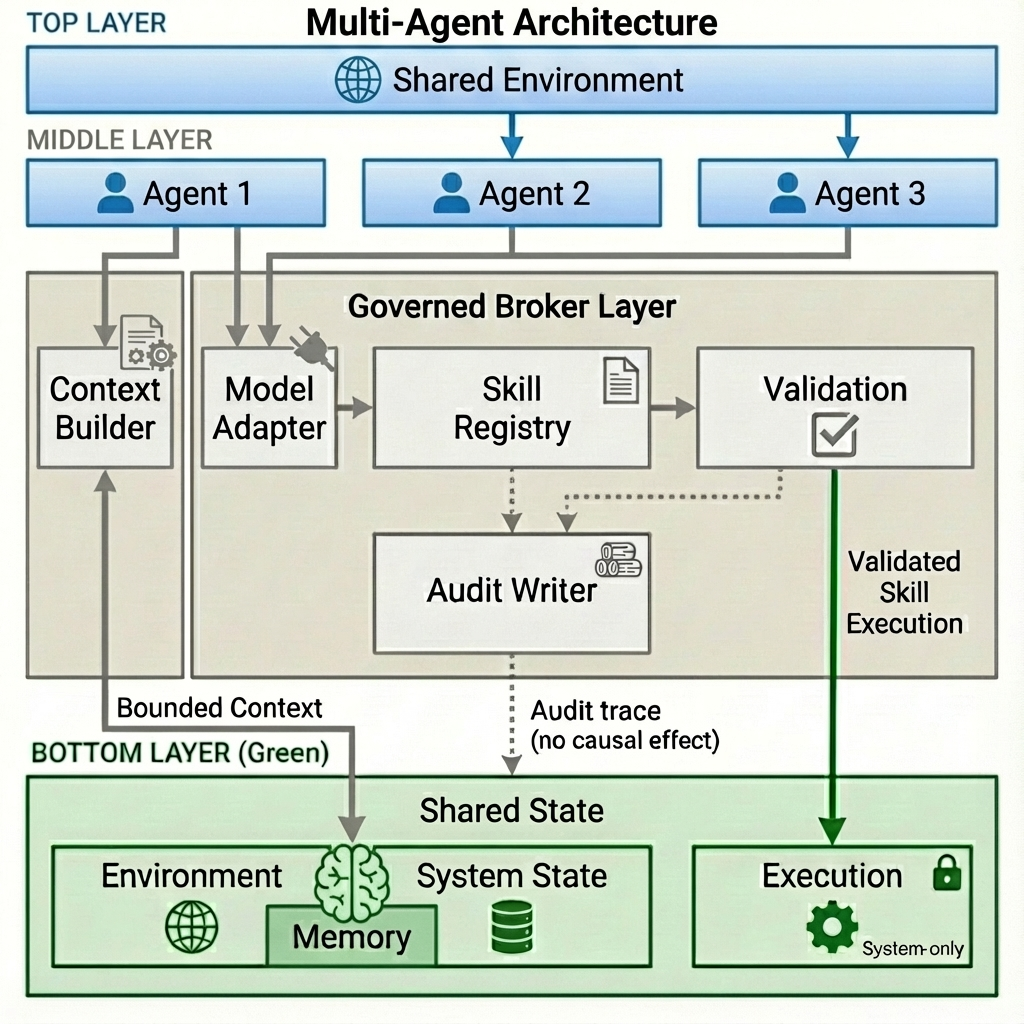
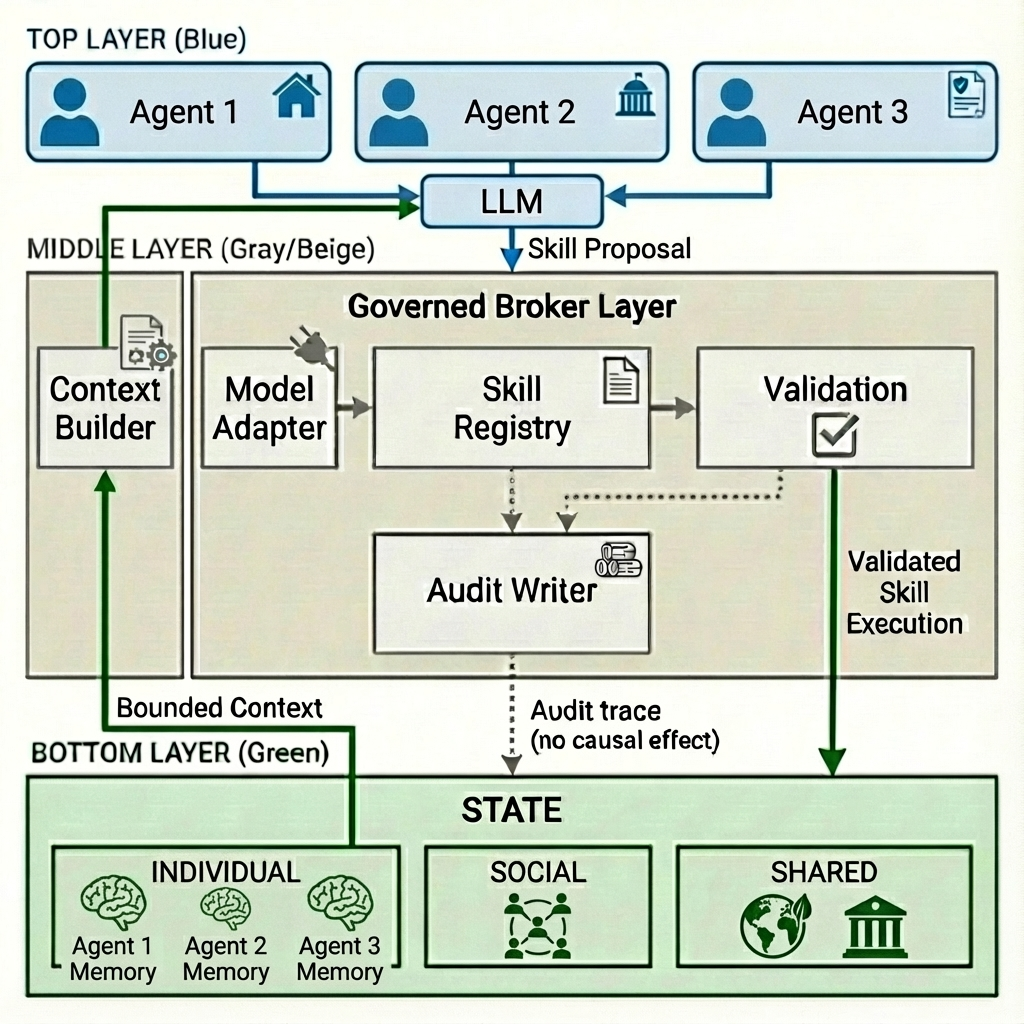
docs: update multi-agent architecture diagram and README with SOCIAL state layer

diff --git a/broker/context_builder.py b/broker/context_builder.py
@@ -18,15 +18,42 @@ class ContextBuilder(ABC):
     """
     
     @abstractmethod
-    def build(self, agent_id: str) -> Dict[str, Any]:
+    def build(
+        self, 
+        agent_id: str,
+        observable: Optional[List[str]] = None
+    ) -> Dict[str, Any]:
         """
         Build bounded context for an agent.
+        
+        Args:
+            agent_id: The agent to build context for
+            observable: Optional list of observable categories:
+                - "neighbors": Include neighbor actions
+                - "community": Include community statistics
+                - "institutional": Include policy state
         
         Returns:
             Dict with observable signals only.
             Must NOT include hidden state variables.
         """
         pass
+    
+    def build_with_neighbors(
+        self,
+        agent_id: str,
+        neighbor_ids: List[str],
+        include_actions: bool = True
+    ) -> Dict[str, Any]:
+        """
+        Build context with neighbor observation.
+        
+        Default implementation delegates to build() with neighbors.
+        Override for custom neighbor handling.
+        """
+        context = self.build(agent_id, observable=["neighbors", "community"])
+        context["neighbor_ids"] = neighbor_ids
+        return context
     
     @abstractmethod
     def format_prompt(self, context: Dict[str, Any]) -> str:
@@ -54,19 +81,30 @@ class ContextBuilder(ABC):
 class SimpleContextBuilder(ContextBuilder):
     """
     Simple implementation for toy domains.
+    
+    Supports observable categories:
+    - neighbors: Include neighbor recent actions
+    - community: Include aggregated community stats
+    - institutional: Include policy/rule state
     """
     
     def __init__(
         self,
         state_provider: Any,
         prompt_template: str,
-        observable_fields: List[str]
+        observable_fields: List[str],
+        neighbor_provider: Optional[Any] = None
     ):
         self.state_provider = state_provider
         self.prompt_template = prompt_template
         self.observable_fields = observable_fields
+        self.neighbor_provider = neighbor_provider
     
-    def build(self, agent_id: str) -> Dict[str, Any]:
+    def build(
+        self, 
+        agent_id: str,
+        observable: Optional[List[str]] = None
+    ) -> Dict[str, Any]:
         """Build context from observable fields only."""
         full_state = self.state_provider.get_agent_state(agent_id)
         
@@ -77,7 +115,44 @@ class SimpleContextBuilder(ContextBuilder):
         }
         context["agent_id"] = agent_id
         
+        # Add observable categories if requested
+        observable = observable or []
+        
+        if "neighbors" in observable and self.neighbor_provider:
+            context["neighbor_actions"] = self._get_neighbor_actions(agent_id)
+        
+        if "community" in observable and self.neighbor_provider:
+            context["community_stats"] = self._get_community_stats()
+        
+        if "institutional" in observable:
+            context["institutional"] = self._get_institutional_state()
+        
         return context
+    
+    def _get_neighbor_actions(self, agent_id: str) -> List[Dict[str, Any]]:
+        """Get recent actions of neighbors."""
+        if not self.neighbor_provider:
+            return []
+        neighbor_ids = self.neighbor_provider.get_neighbors(agent_id)
+        return [
+            {
+                "agent_id": nid,
+                "last_action": self.neighbor_provider.get_last_action(nid)
+            }
+            for nid in neighbor_ids[:5]  # Limit to 5 neighbors
+        ]
+    
+    def _get_community_stats(self) -> Dict[str, Any]:
+        """Get aggregated community statistics."""
+        if not self.neighbor_provider:
+            return {}
+        return self.neighbor_provider.get_community_stats()
+    
+    def _get_institutional_state(self) -> Dict[str, Any]:
+        """Get institutional/policy state."""
+        if hasattr(self.state_provider, 'get_institutional_state'):
+            return self.state_provider.get_institutional_state()
+        return {}
     
     def format_prompt(self, context: Dict[str, Any]) -> str:
         """Format using template."""
@@ -87,3 +162,4 @@ class SimpleContextBuilder(ContextBuilder):
         """Get agent memory."""
         state = self.state_provider.get_agent_state(agent_id)
         return state.get("memory", [])
+

diff --git a/README.md b/README.md
@@ -4,136 +4,170 @@
 
 **A governance middleware for LLM-driven Agent-Based Models**
 
-[![English](https://img.shields.io/badge/lang-English-blue)](README.md#english) [![中文](https://img.shields.io/badge/lang-中文-red)](README.md#中文)
+[![Python 3.10+](https://img.shields.io/badge/python-3.10+-blue.svg)](https://www.python.org/downloads/)
+[![License: MIT](https://img.shields.io/badge/License-MIT-yellow.svg)](LICENSE)
 
 </div>
 
 ---
 
-## English
+## Overview
 
-### ✨ v0.3 Multi-LLM Extensibility
+The Governed Broker Framework provides a **skill-governed architecture** for building reliable LLM-based Agent-Based Models (ABMs). It ensures that LLM decisions are validated through a multi-stage pipeline before affecting simulation state.
 
-| v0.2 Skill-Governed | v0.3 Extensible |
-|---------------------|-----------------|
-| Single LLM adapter | Multi-LLM Provider Registry |
-| Hardcoded validators | Dynamic validator loading |
-| Sync only | Async + Rate limiting |
+### Key Features
 
-👉 See [`docs/skill_architecture.md`](docs/skill_architecture.md) for architecture details.
-
-### Quick Start
-
-#### Single LLM (Simple)
-```bash
-pip install -r requirements.txt
-cd examples/skill_governed_flood
-python run_experiment.py --model llama3.2:3b --num-agents 100 --num-years 10
-```
-
-#### Multi-LLM (Advanced)
-```python
-from providers import OllamaProvider, OpenAIProvider
-from interfaces import LLMProviderRegistry
-
-# Register multiple providers
-registry = LLMProviderRegistry()
-registry.register("local", OllamaProvider(model="llama3.2:3b"))
-registry.register("cloud", OpenAIProvider(api_key="..."))
-
-# Use different LLMs for different tasks
-local_response = registry.get("local").invoke(prompt)
-cloud_response = registry.get("cloud").invoke(prompt)
-```
-
-### Architecture
-
-| Single-Agent | Multi-Agent |
-|--------------|-------------|
-| ![Single-Agent](docs/single_agent_architecture.png) | ![Multi-Agent](docs/multi_agent_architecture.png) |
-
-### Key Components
-
-| Component | Purpose |
-|-----------|---------|
-| `SkillBrokerEngine` | Main orchestrator with agent_type support |
-| `StateManager` | Individual/Shared/Institutional state |
-| `SkillRegistry` | Skills with agent type eligibility |
-| `LLMProviderRegistry` | Multi-LLM management (Ollama default) |
-| `ValidatorFactory` | Dynamic validator loading |
-
-### Validation Pipeline
-
-1. **Admissibility** - Skill exists? Agent eligible?
-2. **Feasibility** - Preconditions met?
-3. **Constraints** - Once-only? Annual limit?
-4. **Effect Safety** - Safe state changes?
-5. **PMT Consistency** - Reasoning consistent?
-6. **Uncertainty** - Response confident?
-
-### License
-
-MIT
+- **Multi-Stage Validation**: 6 validators ensure admissibility, feasibility, constraints, safety, and consistency
+- **Multi-Agent Support**: Supports heterogeneous agent types with different skills and eligibility rules
+- **Multi-Level State**: Individual, Shared, and Institutional state layers with access control
+- **Extensible LLM Providers**: Default Ollama, extensible to OpenAI, Anthropic, etc.
+- **Full Traceability**: Complete audit trail for reproducibility
 
 ---
 
+## Architecture
 
-## 中文
+### Single-Agent Mode
 
-### ✨ v0.3 多 LLM 擴充性
+![Single-Agent Architecture](docs/single_agent_architecture.png)
 
-| v0.2 技能治理 | v0.3 可擴充 |
-|---------------|-------------|
-| 單一 LLM 適配器 | Multi-LLM Provider Registry |
-| 固定驗證器 | 動態驗證器載入 |
-| 同步處理 | 非同步 + 速率限制 |
+**Flow**: Environment → Context Builder → LLM → Model Adapter → Skill Broker Engine → Validators → Executor → State
 
-👉 詳見 [`docs/skill_architecture.md`](docs/skill_architecture.md)
+### Multi-Agent Mode
 
-### 快速開始
+![Multi-Agent Architecture](docs/multi_agent_architecture.png)
 
-#### 單一 LLM（簡單）
+**Flow**: Agents → LLM (Skill Proposal) → Governed Broker Layer (Context Builder + Validators) → State Manager with four layers: Individual (memory), Social (neighbor observation), Shared (environment), and Institutional (policy rules).
+
+---
+
+## Quick Start
+
 ```bash
+# Install dependencies
 pip install -r requirements.txt
+
+# Run example experiment
 cd examples/skill_governed_flood
 python run_experiment.py --model llama3.2:3b --num-agents 100 --num-years 10
 ```
 
-#### 多 LLM（進階）
-```python
-from providers import OllamaProvider, OpenAIProvider
-from interfaces import LLMProviderRegistry
+---
 
-# 註冊多個 LLM 提供者
-registry = LLMProviderRegistry()
-registry.register("local", OllamaProvider(model="llama3.2:3b"))
-registry.register("cloud", OpenAIProvider(api_key="..."))
+## Core Components
 
-# 根據需求使用不同 LLM
-local_response = registry.get("local").invoke(prompt)
-cloud_response = registry.get("cloud").invoke(prompt)
+| Component | Description |
+|-----------|-------------|
+| `SkillBrokerEngine` | Main orchestrator for skill validation and execution |
+| `StateManager` | Multi-level state: Individual / Shared / Institutional |
+| `SkillRegistry` | Skill definitions with agent type eligibility rules |
+| `ContextBuilder` | Build bounded context with neighbor observation |
+| `ModelAdapter` | Parse LLM output into SkillProposal |
+| `ValidatorFactory` | Dynamic validator loading from YAML config |
+| `LLMProvider` | LLM interface (Ollama default, extensible) |
+| `AuditWriter` | Complete traceability for reproducibility |
+
+---
+
+## State Management
+
+### State Ownership (Multi-Agent)
+
+```
+┌─────────────────────────────────────────────────────────────┐
+│  Agent 1          Agent 2          Agent 3                  │
+│  ┌──────────┐     ┌──────────┐     ┌──────────┐            │
+│  │ INDIVIDUAL│     │ INDIVIDUAL│     │ INDIVIDUAL│           │
+│  │ • memory  │     │ • memory  │     │ • memory  │           │
+│  │ • elevated│     │ • elevated│     │ • elevated│           │
+│  │ • insured │     │ • insured │     │ • insured │           │
+│  └─────┬────┘     └─────┬────┘     └─────┬────┘            │
+│        │                │                │                  │
+│        └────────────────┼────────────────┘                  │
+│                         ▼                                   │
+│  ┌─────────────────────────────────────────────────────┐   │
+│  │               SHARED STATE                           │   │
+│  │  • flood_occurred  • year  • community_stats         │   │
+│  └─────────────────────────────────────────────────────┘   │
+└─────────────────────────────────────────────────────────────┘
 ```
 
-### 核心元件
+| State Type | Examples | Scope | Read | Write |
+|------------|----------|-------|------|-------|
+| **Individual** | `memory`, `elevated`, `has_insurance` | Per-agent private | Self only | Self only |
+| **Social** | `neighbor_actions`, `last_decisions` | Observable neighbors | Neighbors | System |
+| **Shared** | `flood_occurred`, `year` | All agents | All | System |
+| **Institutional** | `subsidy_rate`, `policy_mode` | All agents | All | Gov only |
 
-| 元件 | 用途 |
-|------|------|
-| `SkillBrokerEngine` | 主協調器 |
-| `LLMProviderRegistry` | 多 LLM 管理 |
-| `DomainConfigLoader` | YAML 驅動配置 |
-| `ValidatorFactory` | 動態驗證器載入 |
-| `RateLimiter` | API 速率控制 |
+> **Key Point**: `memory` is **Individual** - each agent has their own memory, not shared.
 
-### 驗證管線
+```python
+from simulation import StateManager
 
-1. **Admissibility** - 技能存在？代理有權限？
-2. **Feasibility** - 前置條件滿足？
-3. **Constraints** - 單次限制？年度限制？
-4. **Effect Safety** - 狀態變更安全？
-5. **PMT Consistency** - 推理一致？
-6. **Uncertainty** - 回應確定？
+state = StateManager()
+state.register_agent("agent_1", agent_type="homeowner")
 
-### 授權
+# Individual: agent's private state (including memory)
+state.update_individual("agent_1", {
+    "memory": ["flood in year 2", "bought insurance in year 3"],
+    "elevated": True
+})
+
+# Shared: environment visible to all
+state.update_shared({"flood_occurred": True, "year": 5})
+```
+
+---
+
+## Validation Pipeline
+
+| Stage | Validator | Check |
+|-------|-----------|-------|
+| 1 | Admissibility | Skill exists? Agent eligible for this skill? |
+| 2 | Feasibility | Preconditions met? (e.g., not already elevated) |
+| 3 | Constraints | Once-only? Annual limit? |
+| 4 | Effect Safety | State changes valid? |
+| 5 | PMT Consistency | Reasoning matches decision? |
+| 6 | Uncertainty | Response confident? |
+
+---
+
+## Multi-Agent Configuration
+
+```yaml
+# config/agent_types.yaml
+agent_types:
+  homeowner:
+    skills: [buy_insurance, elevate_house, relocate, do_nothing]
+    observable: [neighbors, community]
+  
+  government:
+    skills: [set_subsidy, change_policy]
+    can_modify: [institutional]
+```
+
+---
+
+## Framework Comparison
+
+| Dimension | Single-Agent | Multi-Agent |
+|-----------|--------------|-------------|
+| State | Individual only | Individual + Social + Shared + Institutional |
+| Agent Types | 1 type | N types (Resident, Gov, Insurance) |
+| Observable | Self only | Self + Neighbors + Community Stats |
+| Context | Direct | Via Context Builder + Social Module |
+| Use Case | Basic ABM | Policy simulation with social dynamics |
+
+---
+
+## Documentation
+
+- [Architecture Details](docs/skill_architecture.md)
+- [Customization Guide](docs/customization_guide.md)
+- [Experiment Design](docs/experiment_design_guide.md)
+
+---
+
+## License
 
 MIT
-
